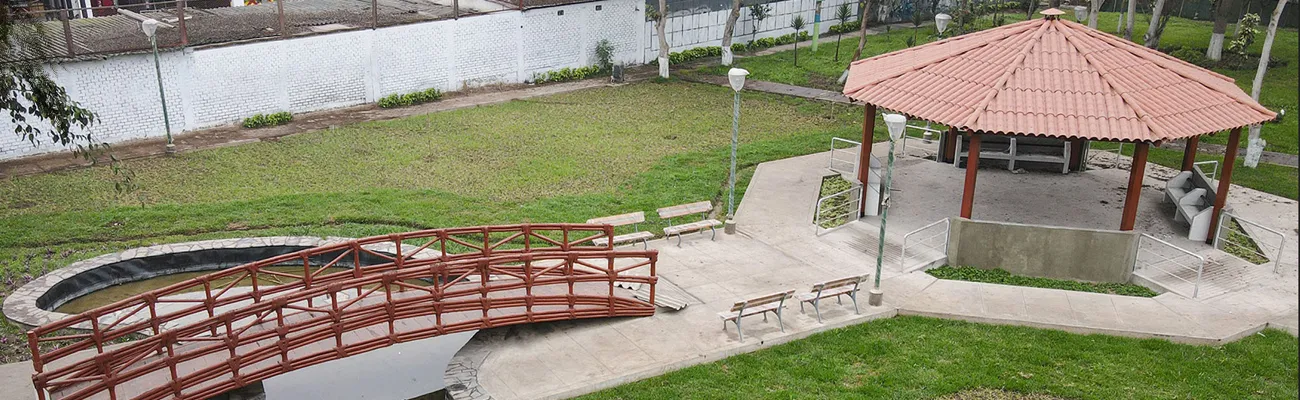
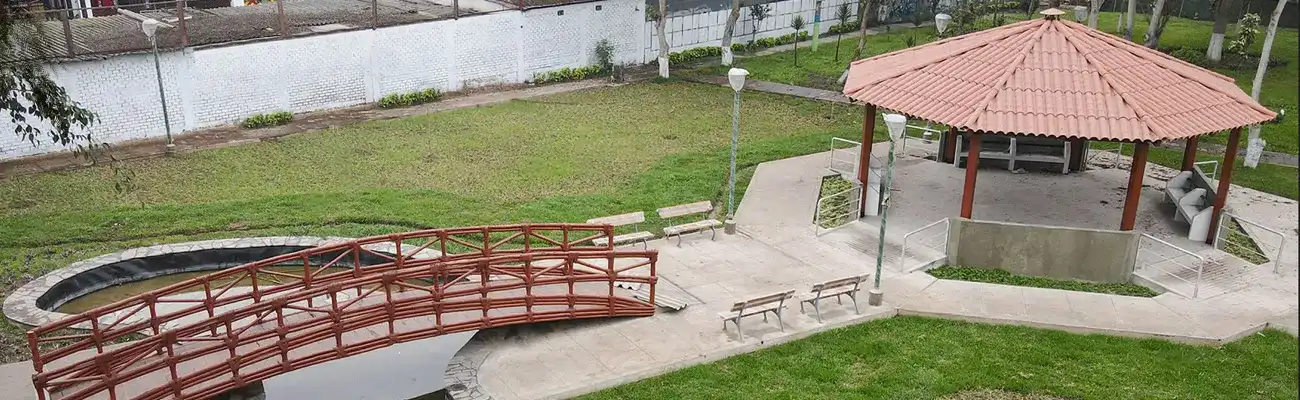
fix audit tool

diff --git a/chamber/index.html b/chamber/index.html
@@ -82,7 +82,7 @@
                 <div class="card-body">
                     <div class="weather-content">
                         <div class="weather-icon">
-                            <img id="weather-icon" src="" alt="">
+                            <img id="weather-icon" src="" alt="Current weather icon">
                         </div>
                         <div class="weather-details">
                             <p class="temperature" id="current-temp"></p>
